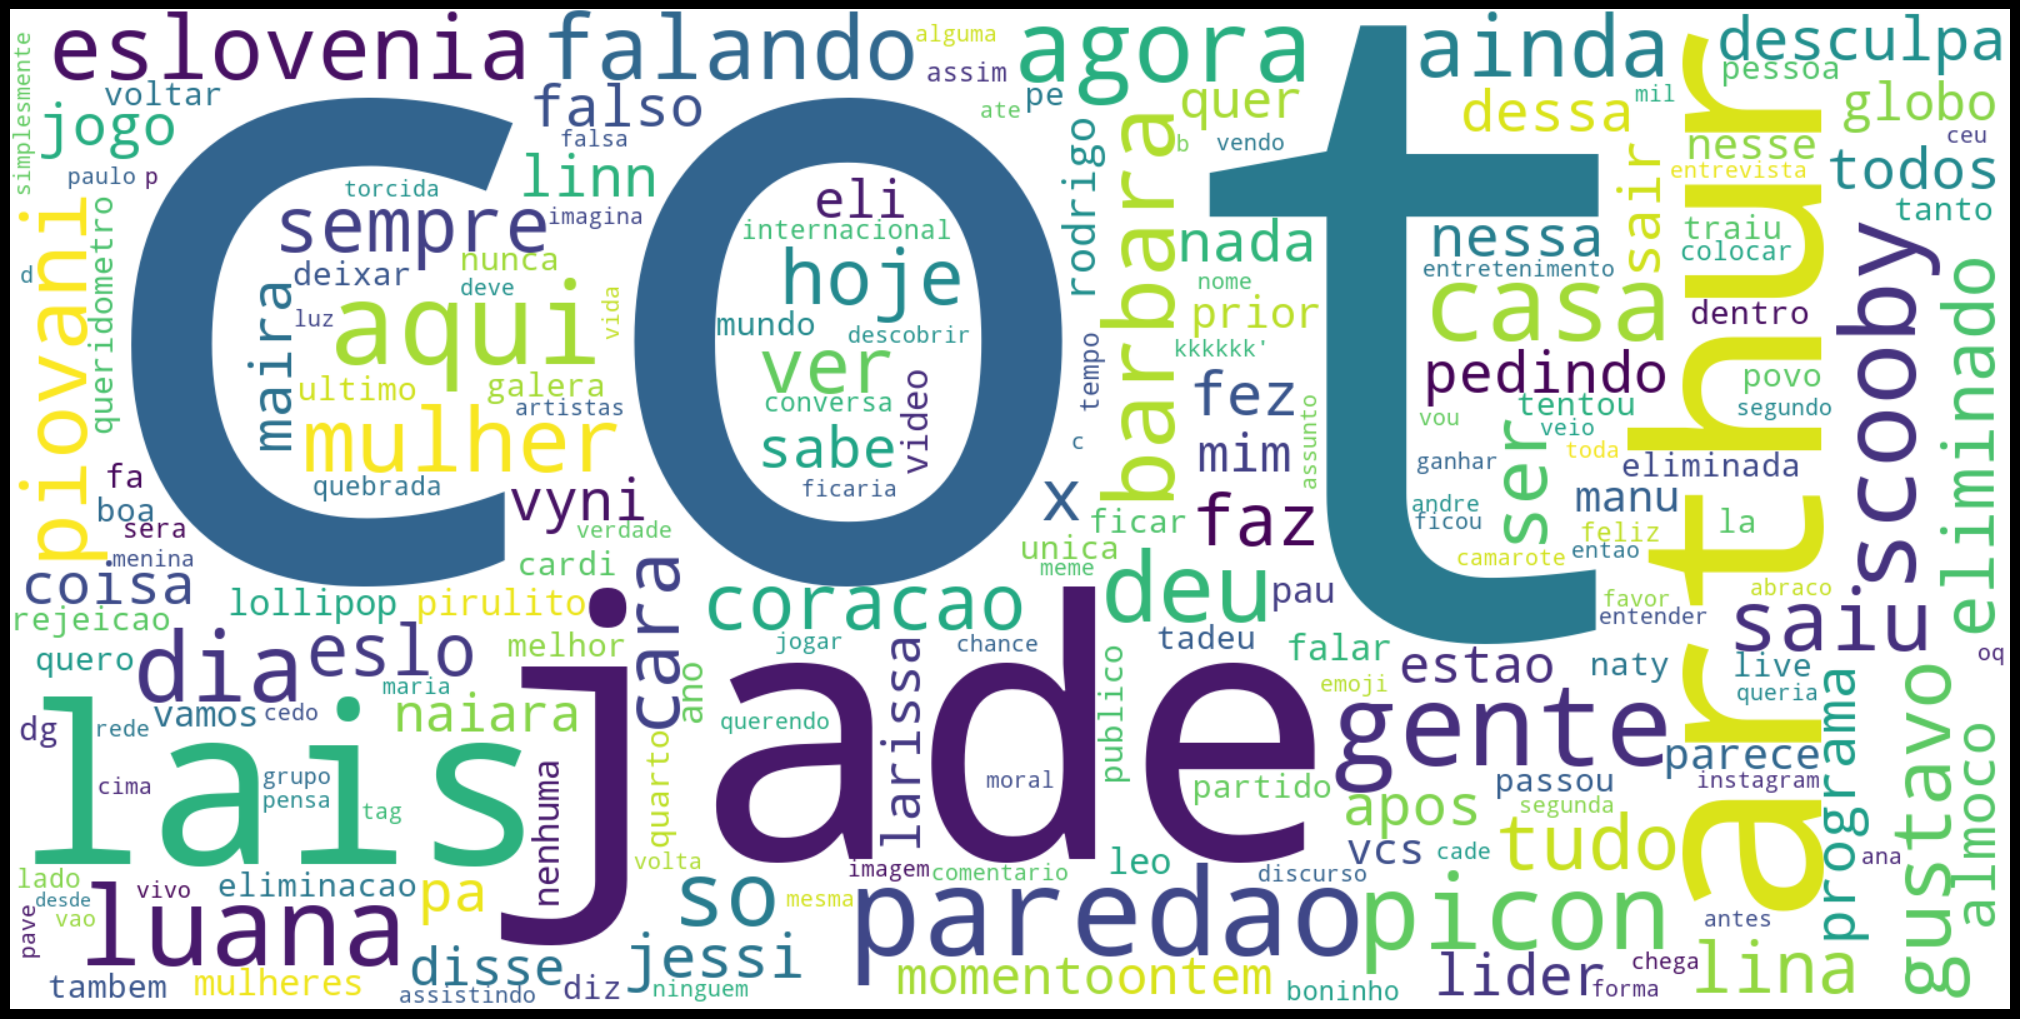
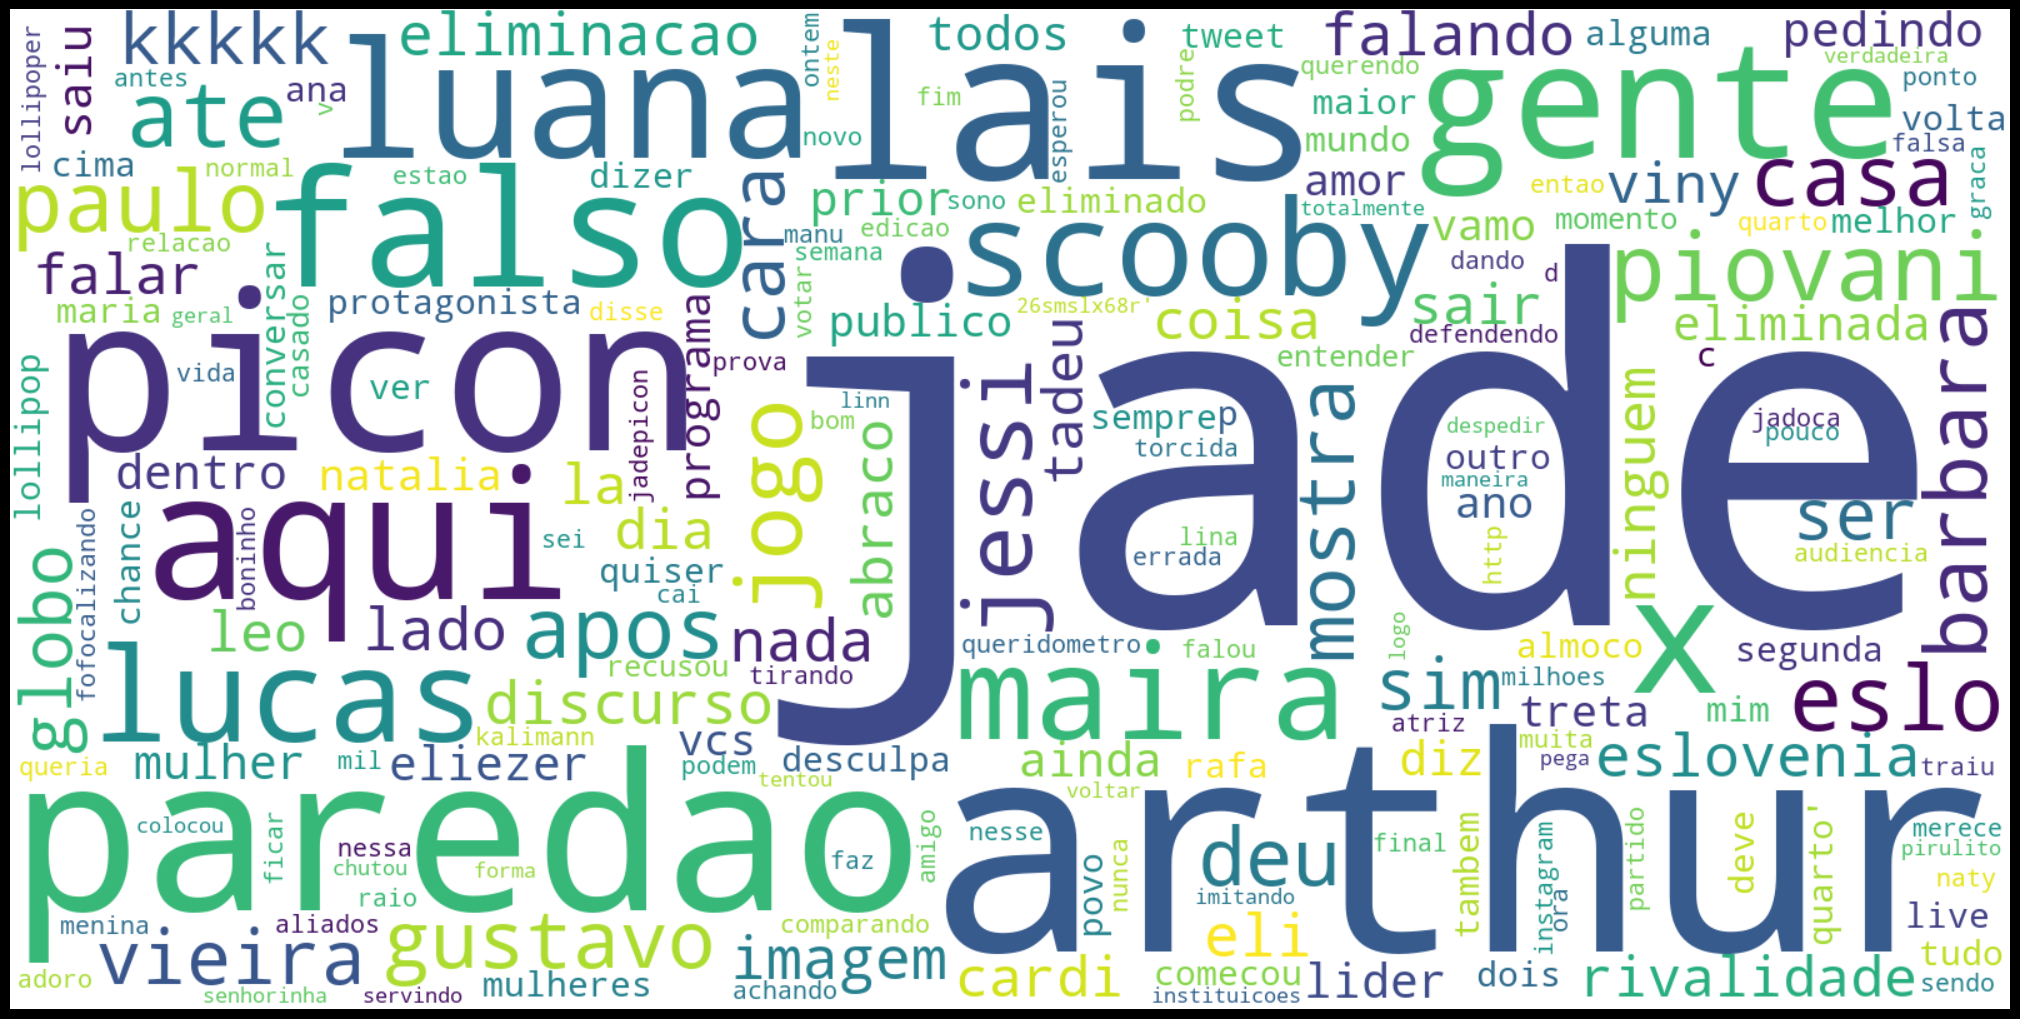
new words

diff --git a/my_first_bot.py b/my_first_bot.py
@@ -22,7 +22,7 @@ newStopWords = ['né','Se','q','vc','ter','ne','da','to','tô','https','BBB22','
                 'dar','bbb22','te','eu','#BBB22','HTTPS','pra','tbm','tb','tt','ja','nao',
                 '#bbb22','#redebbb','bbb','ai','desse','quis','voce','vai','ta','#bbb','ela','sobre','cada','ah','mas','mais',
                 'pro','dela','vem','ja','outra','porque','por que','por quê','porquê','bem','rt','todo','tao','acho','sao','voces','pq',
-                'co','t','x','n']
+                'co','t','n','desde','so','mim''la','quer','fez','agora','aqui','vcs','gente','deu', 'ate', 'sim']
 
 stopwords.extend(newStopWords)
 tweet_list = []
@@ -54,12 +54,16 @@ def create_wc(api,keyword,n_tweets):
     links = lambda x: re.sub('/(?:https?|ftp):\/\/[\n\S]+/g', ' ', x)
     hashtags = lambda x: re.sub('/\#\w\w+\s?/g', ' ', x)
     mentions = lambda x: re.sub('/\@\w\w+\s?/g', ' ', x)
+    laughts_ha = lambda x: re.sub('\b(?>a*+(?:ha)++h?|(?:l+o+)++l+)\b', ' ', x)
+    laughts_k = lambda x: re.sub('\b(?>a*+(?:k)++h?|(?:l+o+)++l+)\b', ' ', x)
 
     tw_list['text'] = tw_list.text.map(remove_rt)
     tw_list['text'] = tw_list.text.map(tags)
     tw_list['text'] = tw_list.text.map(links)
     tw_list['text'] = tw_list.text.map(hashtags)
     tw_list['text'] = tw_list.text.map(mentions)
+    tw_list['text'] = tw_list.text.map(laughts_ha)
+    tw_list['text'] = tw_list.text.map(laughts_k)
 
     #Remove stopwords
     tw_list['text'] = tw_list['text'].apply(lambda x: ' '.join([x.strip() for x in x.split() if x not in stopwords]))
@@ -91,7 +95,7 @@ def create_wc(api,keyword,n_tweets):
     media_list.append(response.media_id_string)
 
     status = 'BBB em: ' + dt_string
-    # api.update_status(status = status,media_ids=media_list)
+    api.update_status(status = status,media_ids=media_list)
 
 
 
